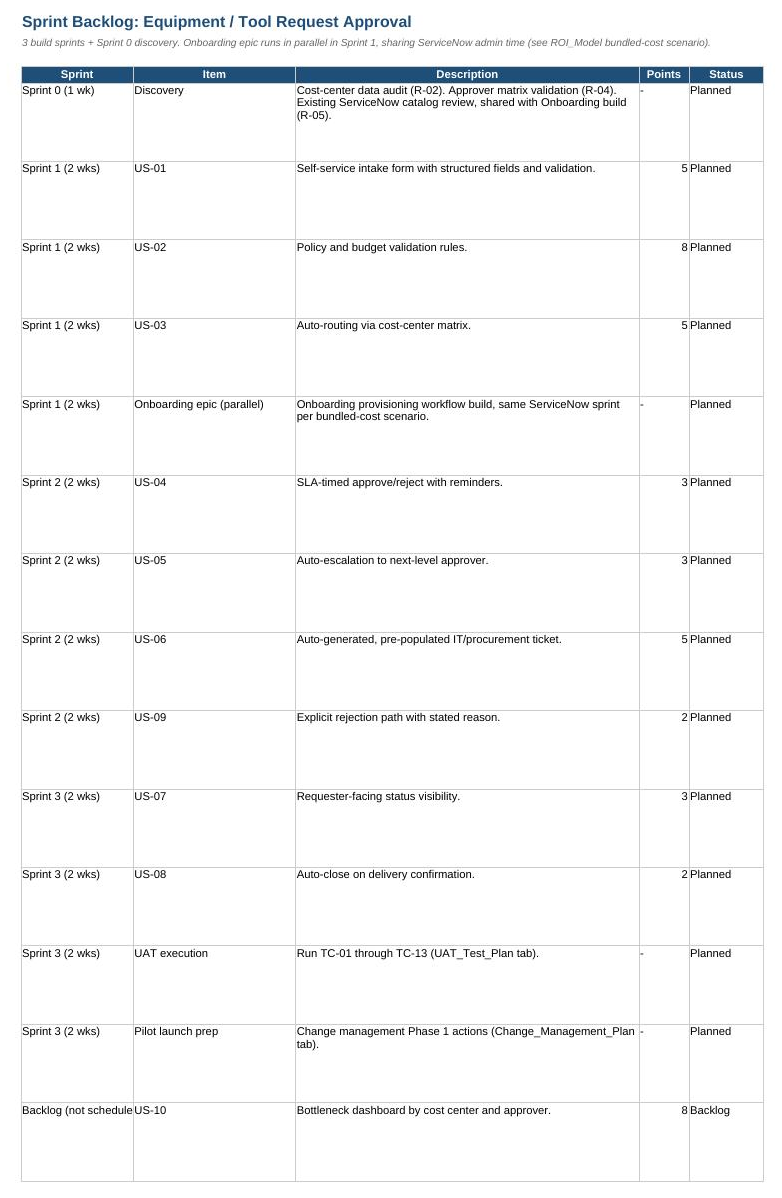
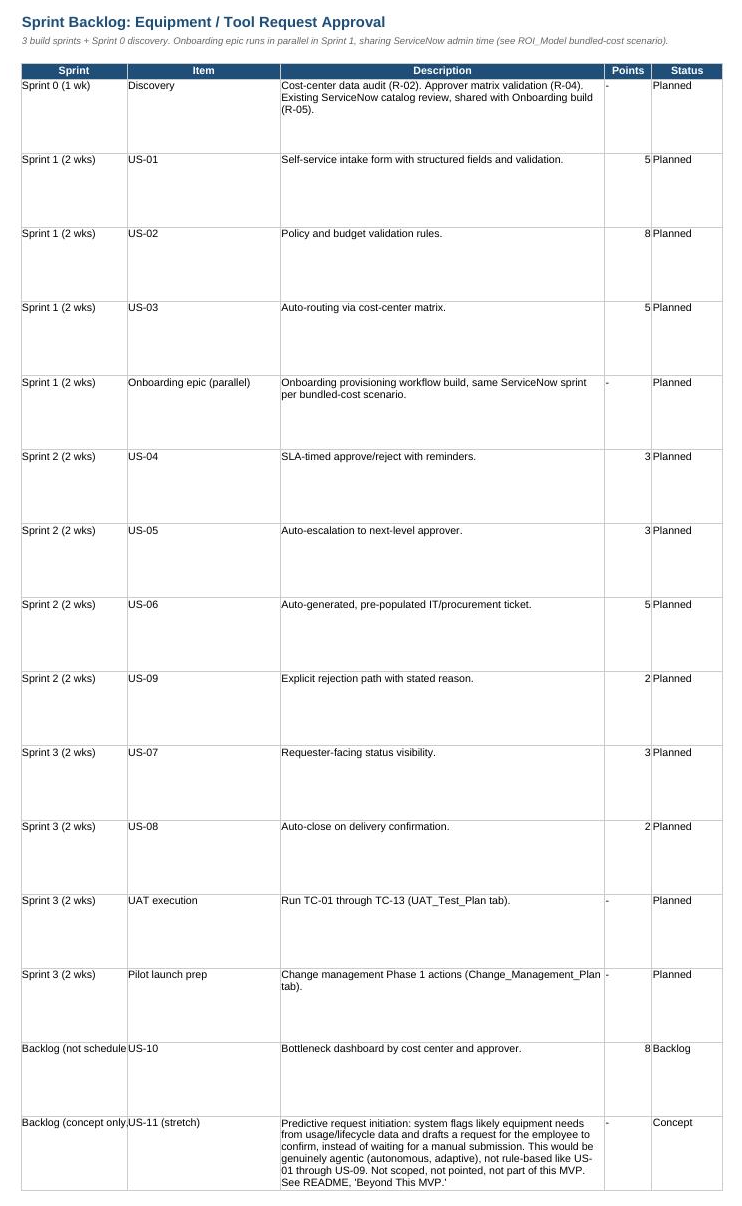
Added Beyond This MVP section, embedded delivery-plan previews, added US-11 concept item

diff --git a/README.md b/README.md
@@ -12,6 +12,8 @@ Micron employed approximately 53,000 people as of its fiscal year 2025 10-K (end
 
 This project's model was built against a 5,000-employee reference scale (matching the size most publicly available automation benchmarks are reported at). Scaled proportionally to Micron's actual workforce, the combined savings identified across the five workflows analyzed here (about $390K/year at reference scale) would extrapolate to roughly **$4.1M/year**. That figure is a directional estimate, not a claim about Micron's actual costs: it assumes uniform scaling of ticket volume across workflows, which will not hold exactly (shift-handoff volume tracks fab headcount, not total corporate headcount, for example). It is included to show the order of magnitude at stake, not as a budget number.
 
+This scale of return is not out of line with what Micron itself reports from applying AI/automation to operations at scale: its Smart Manufacturing & AI initiative, run across 590,000 sensors and 100 million wafer images analyzed weekly, reports 1 million work hours saved annually and a 50% reduction in time-to-market for new products (Micron blog, "Smart manufacturing at Micron: AI at enterprise scale," published Dec 2025; figures based on Micron internal data, 2016-2025). That case is manufacturing, not Digital Workplace, and the methodology isn't disclosed in comparable detail to this project's, so it's cited as directional context for what AI-driven efficiency gains look like at Micron's scale, not as a benchmark this project's numbers are validated against.
+
 ## What This Project Does
 
 Five candidate workflows were scored on a 3-axis model, benchmarked against real 2025-26 industry data, then stress-tested against a conservative risk adjustment:
@@ -75,17 +77,43 @@ Full interactive workbook with editable assumptions: [`data/Automation_Priority_
 
 The analysis above answers "should we automate this." These artifacts answer "how would a team actually build and roll it out," for the top-recommended workflow (Equipment/Tool Request Approval):
 
-- **User stories + acceptance criteria** (10 stories, 44 story points), written against the future-state process map
-- **UAT test plan** (13 test cases), including one gap the test-planning process itself surfaced: the original design had no explicit rejection path, closed by adding US-09 before build rather than after launch
-- **Risk & dependency tracker** for the pilot (Equipment/Tool Request + Onboarding, both on ServiceNow)
-- **Change management & adoption plan**: phased rollout, communication plan, and adoption metrics defined before rollout starts
-- **Sprint backlog**: 3 build sprints plus discovery, Onboarding built in parallel since it shares the same platform
+**User stories + acceptance criteria** (10 stories, 44 story points), written against the future-state process map:
 
 ![User Stories](previews/preview_user_stories.png)
+
+**UAT test plan** (13 test cases), including one gap the test-planning process itself surfaced: the original design had no explicit rejection path, closed by adding US-09 before build rather than after launch:
+
+![UAT Test Plan](previews/preview_uat_test_plan.png)
+
+**Risk & dependency tracker** for the pilot (Equipment/Tool Request + Onboarding, both on ServiceNow), every item with a named owner:
+
+![Risk Tracker](previews/preview_risk_tracker.png)
+
+**Change management & adoption plan**: phased rollout, communication plan, adoption metrics defined before rollout starts, and multi-site rollout considerations reflecting Micron's actual footprint (Boise ID, Manassas VA, Syracuse NY, plus international sites), since a single-timezone, single-champion plan doesn't scale to a multi-fab company:
+
+![Change Management Plan](previews/preview_change_mgmt.png)
+
+**Sprint backlog**: 3 build sprints plus discovery, Onboarding built in parallel since it shares the same platform. Also includes a concept-only stretch item (US-11); see "Beyond This MVP" below:
+
+![Sprint Backlog](previews/preview_sprint_backlog.png)
+
+**Functional specification** for US-02 (policy/budget validation): the one story in the backlog with real business-rule complexity, spelled out as explicit IF/THEN rules, exception handling, data dependencies, and honestly flagged open questions rather than left at user-story level of detail.
 
 Full workbook: [`data/Project_Delivery_Plan.xlsx`](data/Project_Delivery_Plan.xlsx)
 
 **A finding worth naming:** Onboarding and Equipment/Tool Request are costed as two separate $30,000 ServiceNow builds in the ROI model above, a conservative baseline. Since they share the same platform, admin team, and sprint (see the backlog), bundling them plausibly costs less. The ROI_Model tab now includes an editable bundled scenario: a 25% synergy discount drops the combined one-time cost from $60,000 to $45,000, adding roughly $15,000 to the combined 3-year net. The 25% is a planning assumption, not a sourced figure, and is called out as such in the workbook.
+
+## AI & Tool Fit
+
+The JD names specific tools (ServiceNow, Jira, Azure DevOps) and an interest in AI/LLMs. Three artifacts translate the analysis above into the actual formats those tools and workflows use:
+
+- **Jira-ready import**: all 10 user stories exported as a CSV matching Jira's import format (Issue Type, Summary, Story Points, Priority, Epic Link, Sprint). [`exports/jira_import_user_stories.csv`](exports/jira_import_user_stories.csv)
+- **ServiceNow Business Rule**: the 5 business rules (BR-1 to BR-5) from the US-02 functional spec, written as an actual ServiceNow Business Rule script (GlideRecord-based), not generic pseudocode. Illustrative, not tested against a live instance. [`exports/servicenow_business_rule_US-02.js`](exports/servicenow_business_rule_US-02.js)
+- **AI-assisted UAT, with the miss shown**: the exact prompt used to draft first-pass test cases from a user story, the raw AI output, and what a human review caught: the draft missed the one behavior (does not auto-escalate) the story actually existed to test. Full detail: `data/Project_Delivery_Plan.xlsx`, tab `AI_Assisted_UAT_Notes`.
+
+This "AI drafts, a person checks the draft against the actual risk it's supposed to catch" pattern isn't invented for this project. It mirrors what Micron itself says about internal AI use: *"Teams across engineering, marketing and operations are using AI assistants, generative design tools and AI agents to streamline workflows... We have established clear guidelines for responsible AI use"* (Micron blog, "From data to intelligence: Micron's role in the AI revolution," Aug 2025).
+
+**A calibration note, not a claim:** Micron's own glossary defines agentic AI as systems with autonomy, adaptability, memory, and planning, and Micron uses it for exactly that (autonomous preventive-maintenance decisions from acoustic and thermal sensor data, per its Smart Manufacturing blog). The ServiceNow Business Rule above is not that. BR-1 through BR-5 are deterministic if/then logic; Micron's own AI glossary has a precise term for this: *"rule-based inference... valuable in expert systems and compliance-driven environments where transparency and determinism are essential"* (Micron glossary, "What is AI inference?"). Calling a business rule "agentic AI" would be overclaiming by Micron's own definition. It's labeled accurately here instead.
 
 ## Process Maps
 
@@ -97,6 +125,40 @@ Full workbook: [`data/Project_Delivery_Plan.xlsx`](data/Project_Delivery_Plan.xl
 
 ![Process Map: Password Reset](process_maps/password-reset-process-map.png)
 
+## Beyond This MVP
+
+The Equipment/Tool Request future-state above is deliberately rule-based: an employee submits, the system validates and routes, an approver decides. That's the right scope for an MVP, not a limitation to hide.
+
+A further step exists, and it's worth naming honestly rather than pretending the MVP already does it. Micron's own Smart Manufacturing blog describes using agentic AI (autonomous, adaptive, sensor-driven decision-making) for preventive maintenance: the system doesn't wait for a technician to notice a problem, it predicts one from acoustic and thermal sensor data and acts. The same shift could apply here: instead of an employee remembering to submit an equipment request, a genuinely agentic future-state could predict likely equipment needs from usage or lifecycle data and draft the request for the employee to confirm.
+
+This is not built, not scoped, and not story-pointed. It's logged as a concept-only backlog item (US-11) specifically so it's visible without being confused for something already delivered. The distance between "rule-based" (what's here) and "agentic" (what Micron's own glossary reserves that word for) is the honest way to describe where this MVP's ceiling is.
+
+## Visualizations
+
+Five charts beyond the tables and bar chart already in the deck, covering ROI structure, ranking robustness, and risk exposure. All pull from the same verified numbers as the rest of the project.
+
+**ROI Build-Up (waterfall):** total savings minus one-time costs minus license costs, step by step to Year 1 Net.
+
+![Waterfall](visualizations/viz_waterfall.png)
+
+**Payback Ranking:** all 5 workflows by how fast they pay for themselves.
+
+![Payback](visualizations/viz_payback.png)
+
+**Dual-Model Ranking:** the same slope pattern behind the "Equipment ranks #1 under both models" claim in the Sensitivity Analysis section, made visible instead of stated in prose.
+
+![Slope](visualizations/viz_slope.png)
+
+**Risk Heatmap:** all 7 items from the delivery plan's Risk & Dependency Tracker, plotted by Likelihood x Impact.
+
+![Risk Heatmap](visualizations/viz_riskheatmap.png)
+
+**Micron Scale:** the reference-model estimate next to the directional extrapolation to Micron's actual headcount.
+
+![Micron Scale](visualizations/viz_micronscale.png)
+
+**Interactive version:** [`visualizations/interactive_dashboard.html`](visualizations/interactive_dashboard.html) has all 5 as tabbed, hoverable charts (Chart.js, bundled inline, no internet connection needed). GitHub can't execute JavaScript inline, so download the file and open it in any browser to use it; the static images above are the same charts for quick viewing directly on this page.
+
 ## Deck
 
 [View the 7-slide summary deck (PDF)](deck/Micron_Automation_Priority_Deck.pdf). Renders directly in-browser, no download needed.
@@ -105,10 +167,12 @@ Editable source: [`deck/Micron_Automation_Priority_Deck.pptx`](deck/Micron_Autom
 ## Repo Structure
 
 ```
-data/            Automation_Priority_Matrix.xlsx: Assumptions, Scoring Matrix, ROI Model, Sensitivity Analysis, Benchmark Sources
-                  Project_Delivery_Plan.xlsx: User Stories, UAT Test Plan, Risk & Dependency Tracker, Change Management Plan, Sprint Backlog
+data/            Automation_Priority_Matrix.xlsx: Assumptions, Scoring Matrix, ROI Model, Sensitivity Analysis, Benchmark Sources, Values Alignment
+                  Project_Delivery_Plan.xlsx: User Stories, UAT Test Plan, Risk & Dependency Tracker, Change Management Plan, Sprint Backlog, Functional Spec (US-02), AI-Assisted UAT Notes
+exports/         Jira-ready CSV import and a ServiceNow Business Rule script derived from the functional spec
 process_maps/    Current vs future-state diagrams for both Equipment/Tool Request and Password Reset
 deck/            7-slide executive summary deck (.pptx and .pdf)
+visualizations/  5 charts (ROI waterfall, payback ranking, dual-model ranking, risk heatmap, Micron scale) as static PNGs plus one interactive tabbed HTML dashboard
 previews/        Static images of key sheets and charts, embedded above for quick viewing
 ```
 
@@ -122,6 +186,19 @@ previews/        Static images of key sheets and charts, embedded above for quic
 ## Tools Used
 
 Excel (openpyxl), PowerPoint (pptxgenjs), Graphviz, web research (Gartner, Forrester, SHRM, Verizon DBIR, SEC filings, industry vendor benchmarks).
+
+## How This Reflects Micron's Values
+
+Micron's stated core values are People, Innovation, Tenacity, Collaboration, and Customer Focus, with Integrity as a foundational principle underneath all five (per Micron's Code of Business Conduct and Ethics). Rather than claim alignment in the abstract, each value is mapped to one specific decision already made in this project, not retrofitted afterward:
+
+- **People**: Password/Access Reset was not recommended for funding once the risk-adjusted model showed a thin margin, and it's flagged as likely already partly covered by Micron's existing Microsoft 365/Entra ID tenant.
+- **Innovation**: the original 3-axis scoring model was extended with a Standardization axis after research into RPA candidate-selection literature showed it's more predictive of automation success than the original model alone.
+- **Tenacity**: two real errors were caught and fixed mid-build (a turnaround-vs-labor-time conflation, a downtime-vs-handover-time metric mismatch), documented in place rather than silently corrected.
+- **Collaboration**: the Risk & Dependency Tracker names a specific owner for every item (ServiceNow Platform Team, IT/Procurement Lead, Finance Systems Liaison), not a generic "IT team."
+- **Customer Focus**: every future-state process map keeps requester-facing status visibility as a first-class requirement, not an afterthought.
+- **Integrity**: the Sensitivity Analysis and risk-adjusted stress test exist specifically to find and report the recommendation that doesn't hold up, not just the ones that do.
+
+Full detail and specific artifact references: [`data/Automation_Priority_Matrix.xlsx`](data/Automation_Priority_Matrix.xlsx), `Values_Alignment` tab.
 
 ## What This Enables
 
